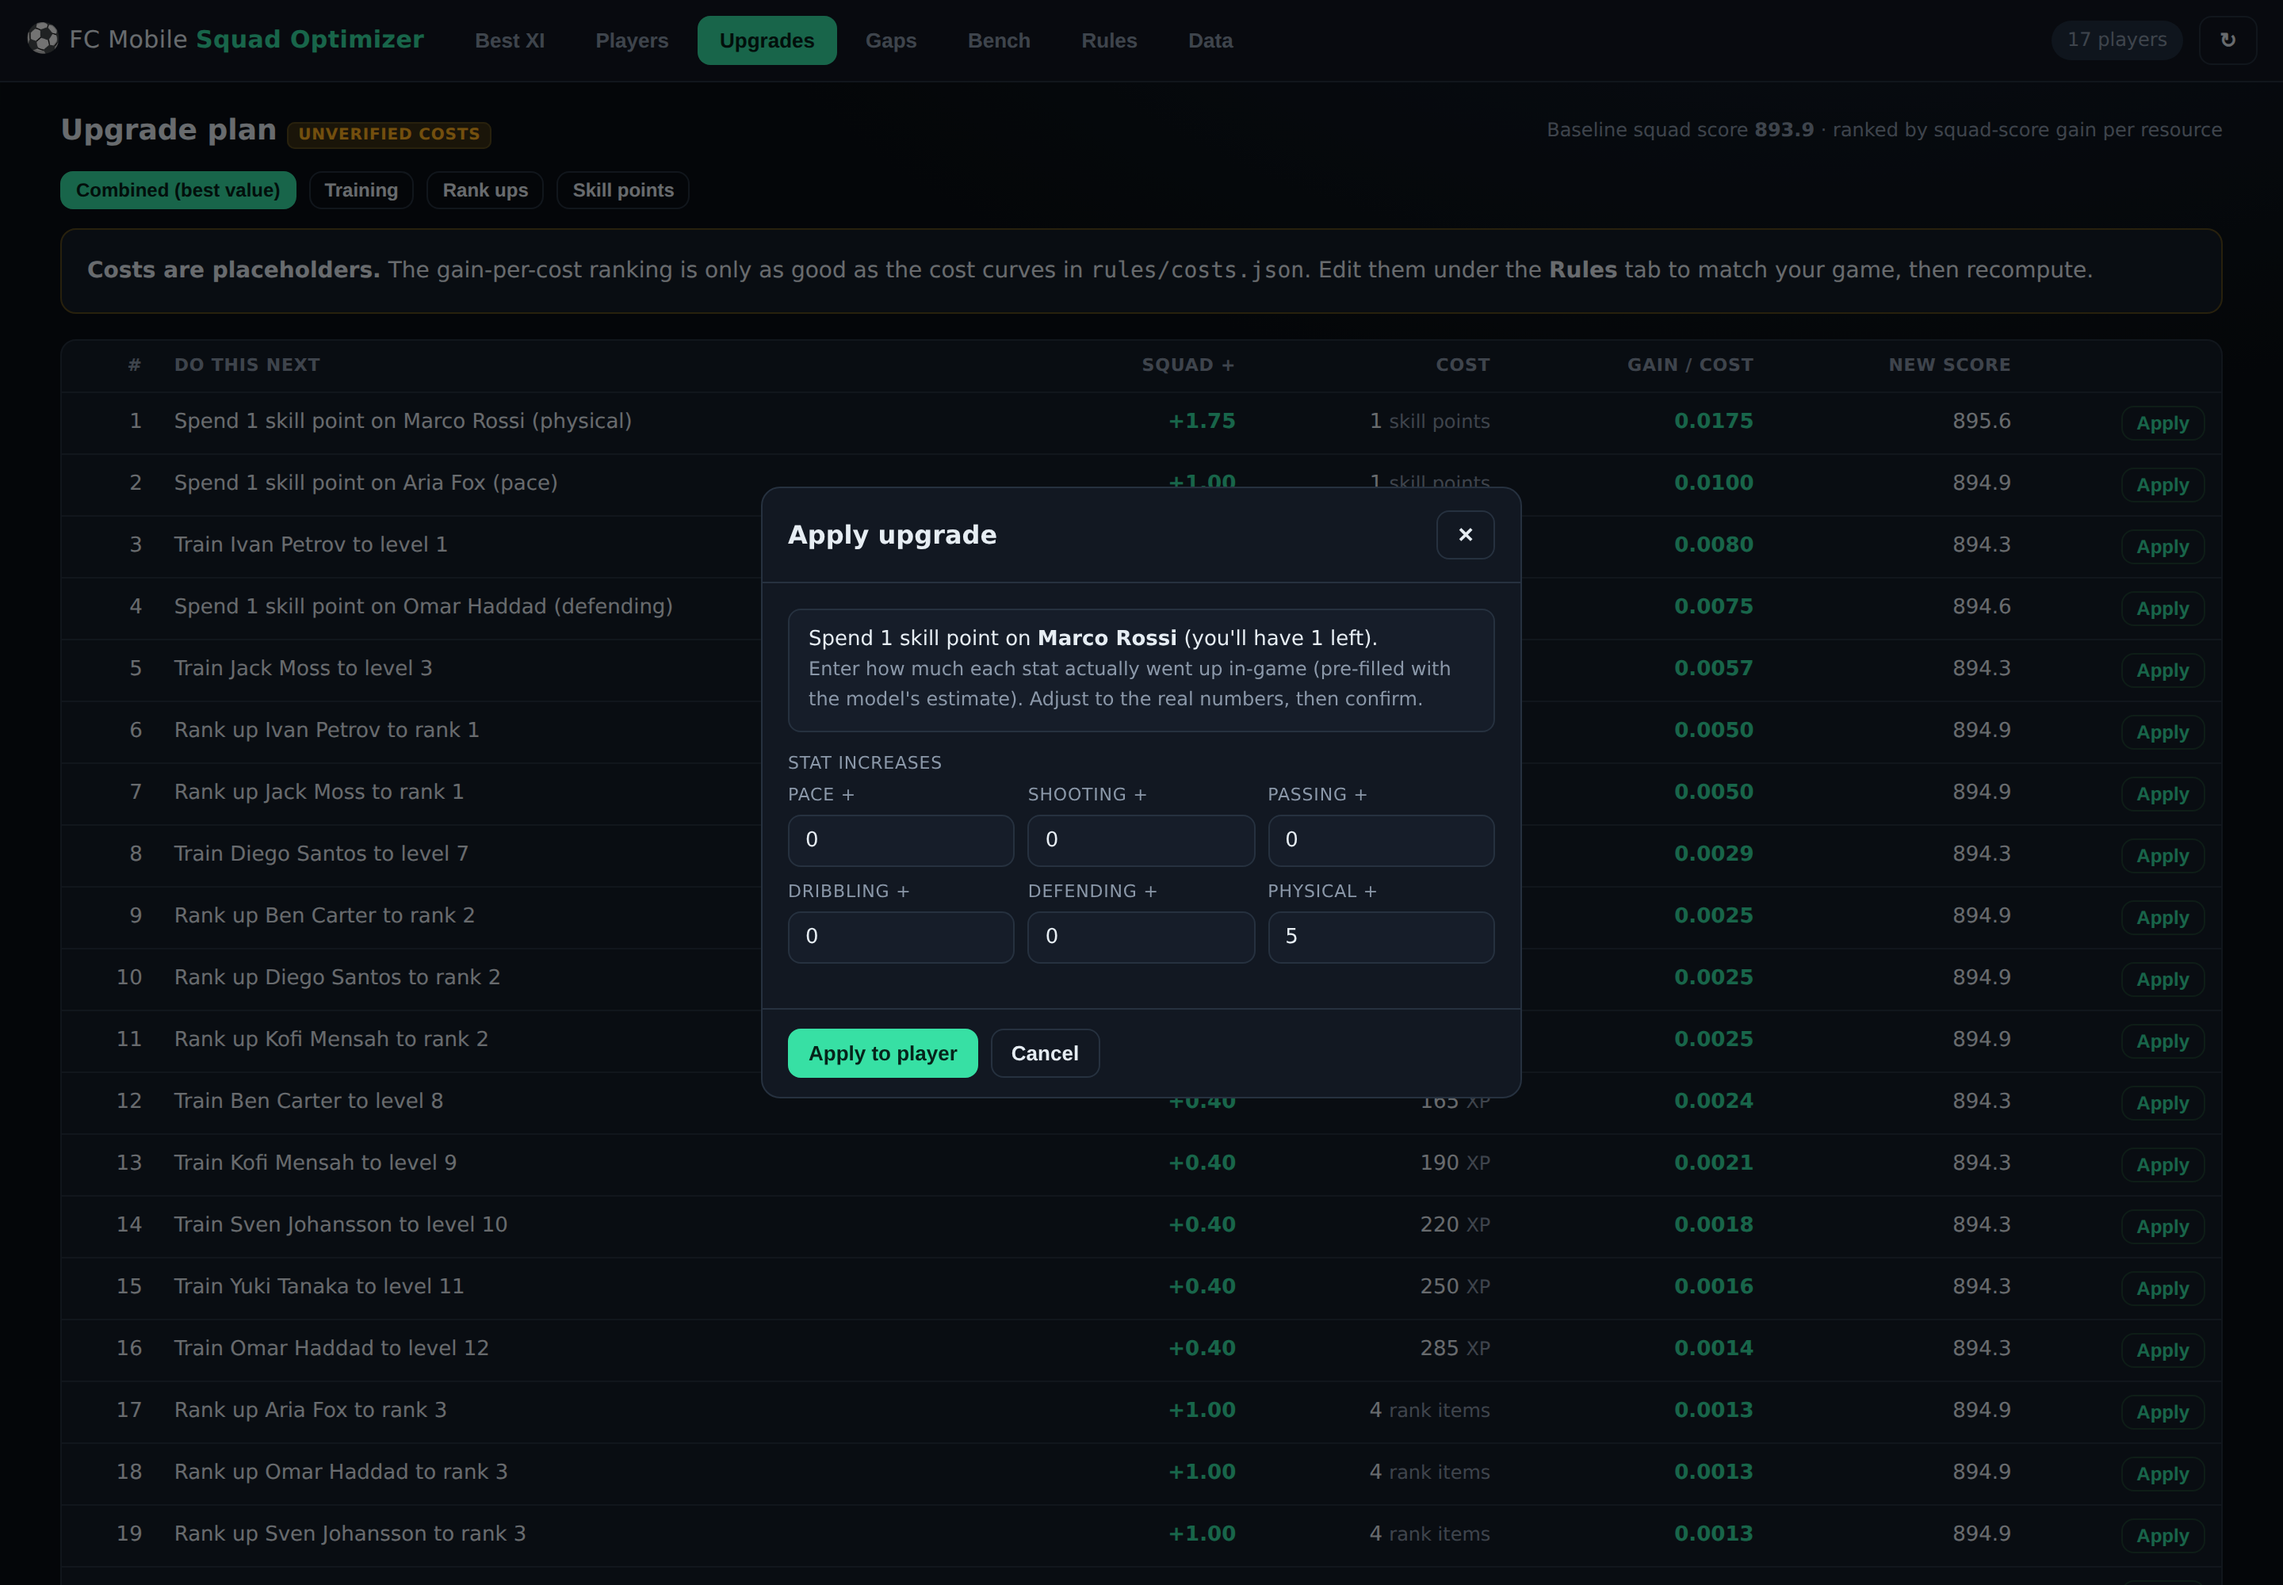
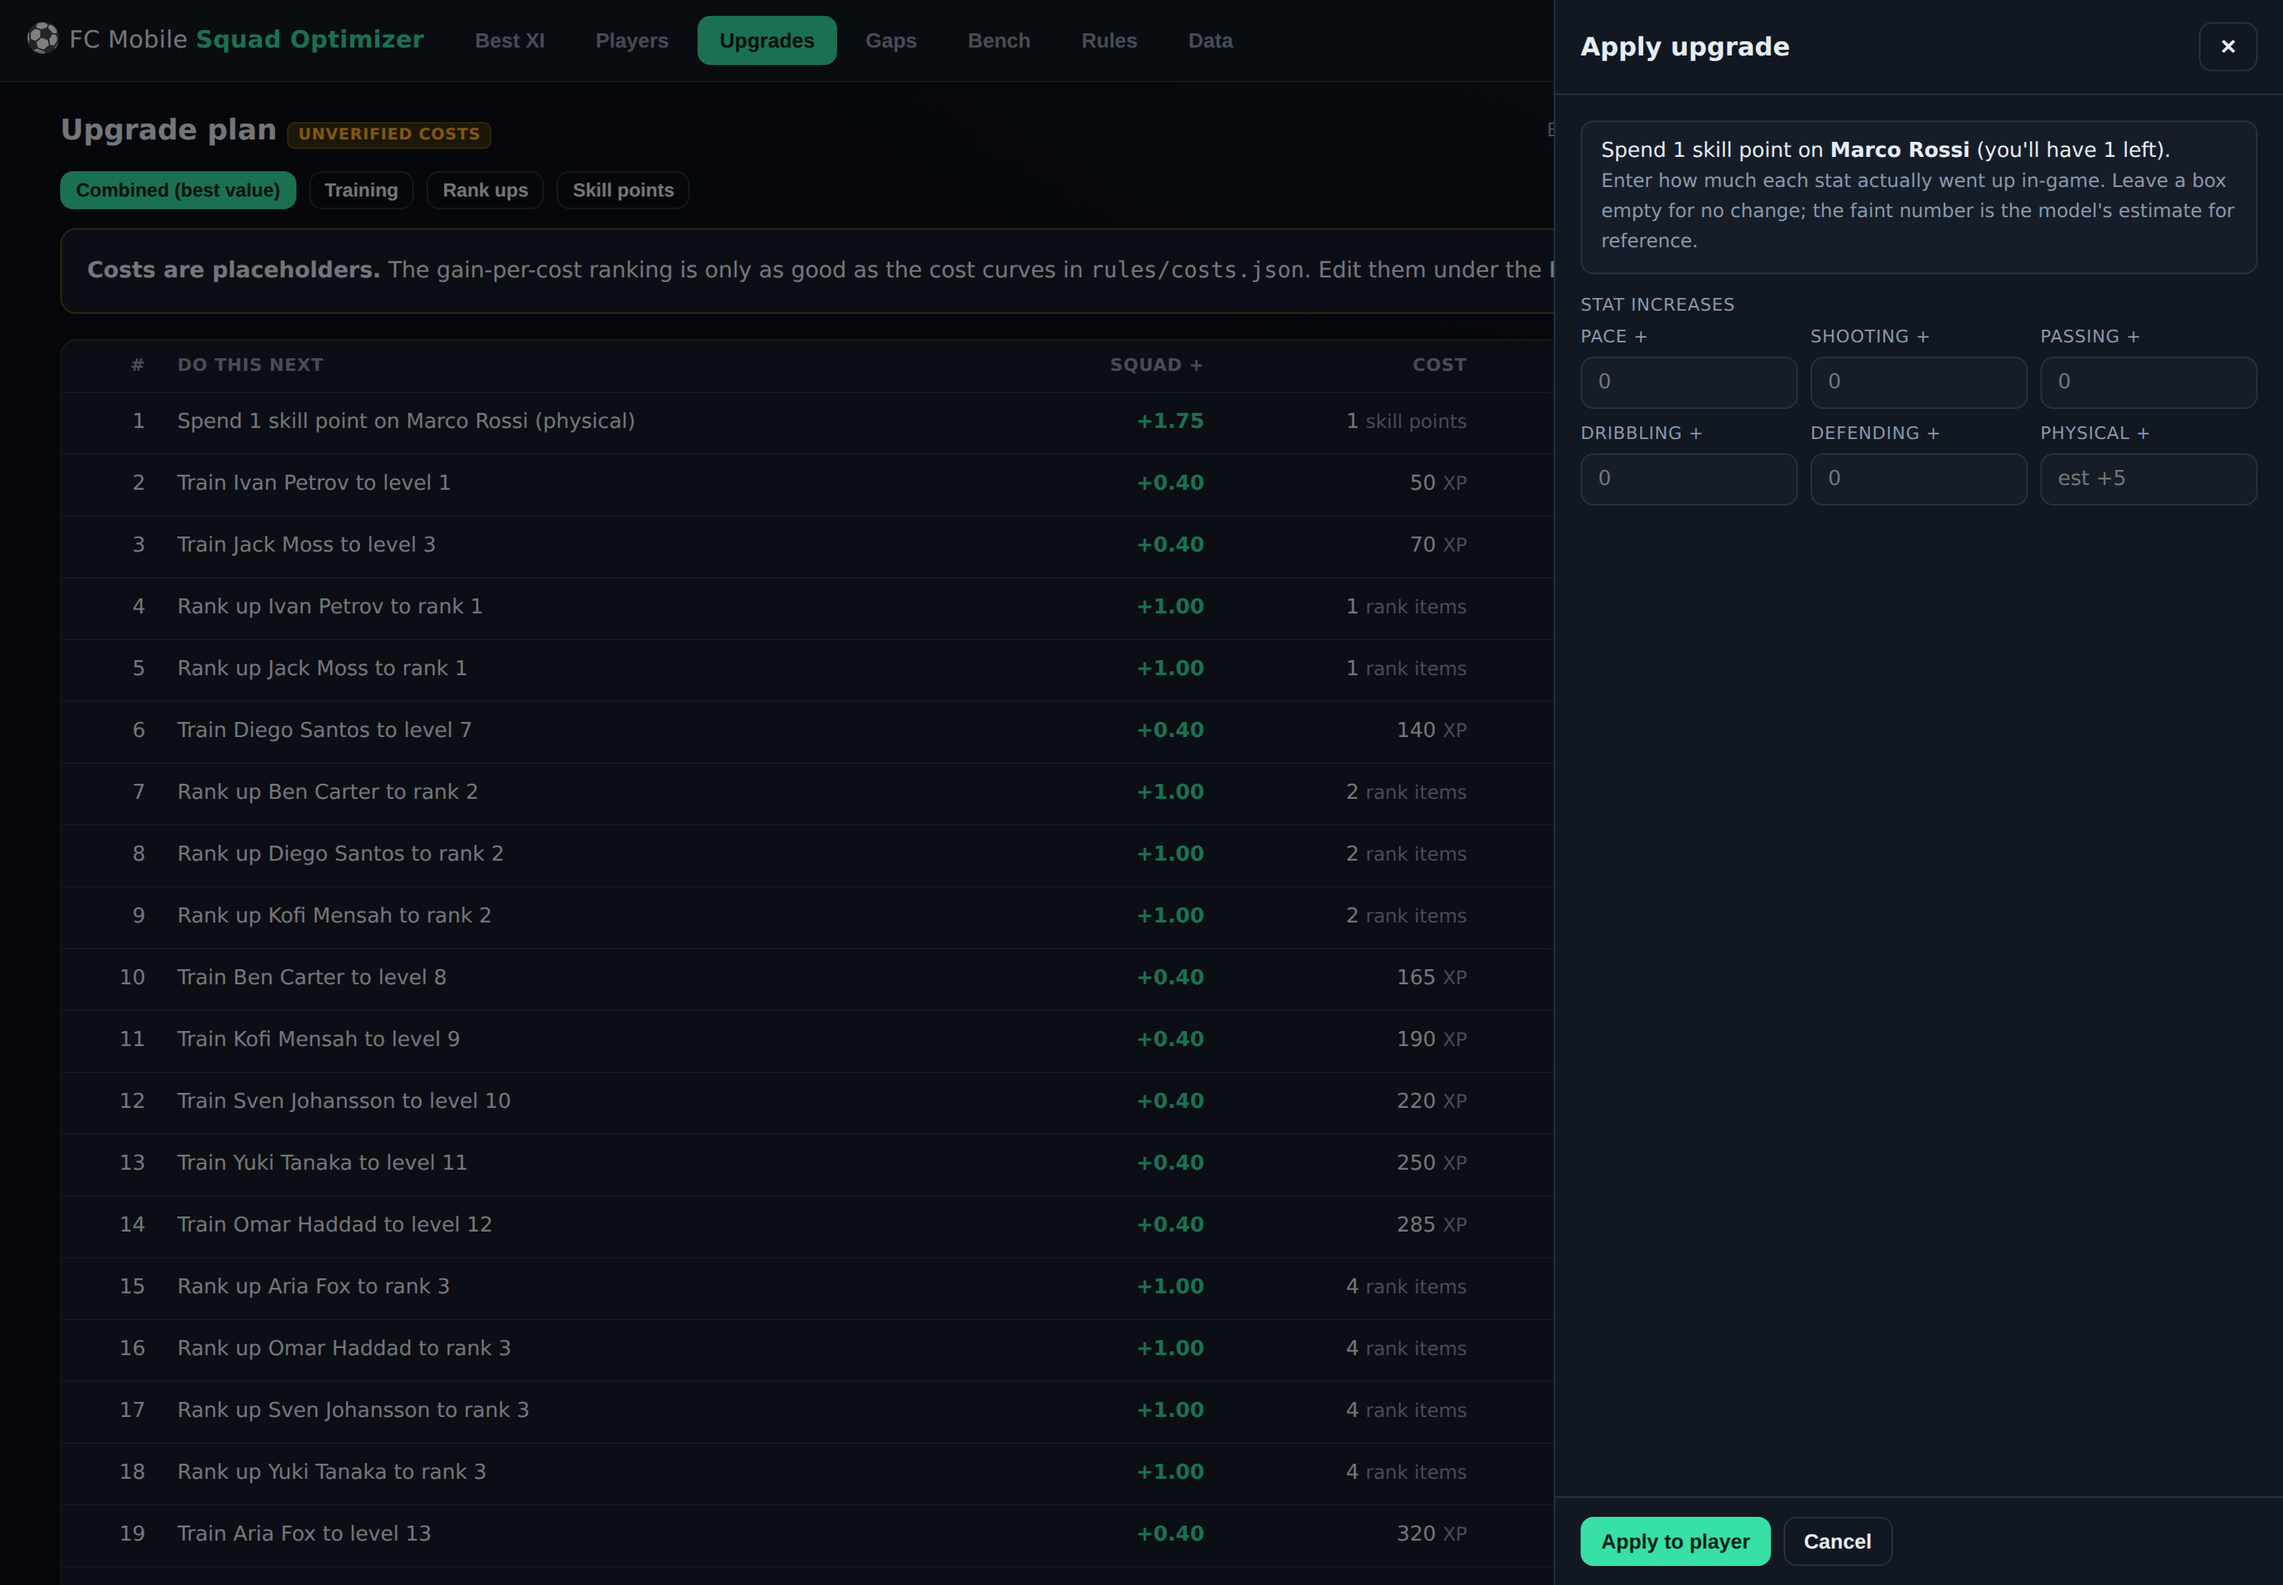
Apply panel: empty inputs + right-side drawer per player
- The Apply panel now slides in from the right for that player (same style as
  the player editor), instead of a centered pop-up over the list.
- Stat-increase boxes start empty; the model's estimate is shown only as a
  faint placeholder for reference (empty box = no change on that stat).

Claude-Session: https://claude.ai/code/session_0186D7V2GWLdLZnzqt7dgDp5

diff --git a/frontend/js/app.js b/frontend/js/app.js
@@ -548,24 +548,29 @@ function openApplyModal(c) {
   else if (kind === "rankup") info = `Rank up <b>${esc(p.name)}</b>: rank <b>${p.rank} → ${a.new_rank}</b>${a.unlocked_positions && a.unlocked_positions.length ? `, unlocking <b>${a.unlocked_positions.join(", ")}</b>` : ""}.`;
   else if (kind === "skill") info = `Spend 1 skill point on <b>${esc(p.name)}</b> (you'll have ${Math.max(0, (p.skill_points || 0) - 1)} left).`;
 
-  const statInputs = stats.map((s) => `
-    <div class="field" style="margin:0"><label>${statLabel(s, isGk)} +</label>
-      <input id="ap-${s}" type="number" step="0.1" value="${deltas[s] != null ? deltas[s] : 0}" /></div>`).join("");
+  // Inputs start EMPTY; the model's estimate is shown only as a faint placeholder hint.
+  const statInputs = stats.map((s) => {
+    const est = deltas[s];
+    const ph = est ? `est +${est}` : "0";
+    return `<div class="field" style="margin:0"><label>${statLabel(s, isGk)} +</label>
+      <input id="ap-${s}" type="number" step="0.1" placeholder="${ph}" /></div>`;
+  }).join("");
 
   const ovrRow = kind === "rankup" ? `
-    <div class="field"><label>OVR increase</label><input id="ap-ovr" type="number" step="1" value="${a.ovr_delta != null ? a.ovr_delta : 0}" /></div>
+    <div class="field"><label>OVR increase</label><input id="ap-ovr" type="number" step="1" placeholder="${a.ovr_delta ? "est +" + a.ovr_delta : "0"}" /></div>
     <label style="display:block;margin-bottom:12px"><input type="checkbox" id="ap-sp" checked /> Gained 1 skill point from this rank up</label>` : "";
 
+  // Right-side drawer for this player (same style as the player editor).
   const overlay = document.createElement("div");
-  overlay.className = "modal-overlay";
-  overlay.innerHTML = `<div class="modal-card">
-    <div class="modal-head"><h2>Apply upgrade</h2><button class="btn ghost" id="ap-x">✕</button></div>
-    <div class="modal-body">
-      <div class="apply-note">${info}<br><span class="hint">Enter how much each stat actually went up in-game (pre-filled with the model's estimate). Adjust to the real numbers, then confirm.</span></div>
+  overlay.className = "drawer";
+  overlay.innerHTML = `<div class="drawer-panel">
+    <div class="drawer-head"><h2>Apply upgrade</h2><button class="btn ghost" id="ap-x">✕</button></div>
+    <div class="drawer-body">
+      <div class="apply-note">${info}<br><span class="hint">Enter how much each stat actually went up in-game. Leave a box empty for no change; the faint number is the model's estimate for reference.</span></div>
       ${ovrRow}
       <div class="field"><label>${isGk ? "GK stat" : "Stat"} increases</label><div class="statgrid">${statInputs}</div></div>
     </div>
-    <div class="modal-foot">
+    <div class="drawer-foot">
       <button class="btn primary" id="ap-confirm">Apply to player</button>
       <button class="btn ghost" id="ap-cancel">Cancel</button>
     </div>

diff --git a/README.md b/README.md
@@ -38,10 +38,11 @@ whenever your XP runs out.
 ![Training budget planner](docs/images/09-training-planner.png)
 
 **Apply an upgrade:** every recommendation (and every training-plan step) has an **Apply**
-button. Do the upgrade in-game, click Apply, and a pop-up asks how much each stat actually
-increased — pre-filled with the model’s estimate, so you just tweak it to the real numbers.
-Confirm and the player is updated in the app (level/rank/skill point + the stat changes),
-so your collection stays in sync and every later recommendation reflects it.
+button. Do the upgrade in-game, click Apply, and a panel slides in from the right for that
+player with empty boxes for each stat — you type how much each one actually increased (the
+model’s estimate shows only as a faint placeholder for reference; leave a box empty for no
+change). Confirm and the player is updated in the app (level/rank/skill point + the stat
+changes), so your collection stays in sync and every later recommendation reflects it.
 
 ![Apply an upgrade](docs/images/10-apply-modal.png)
 
